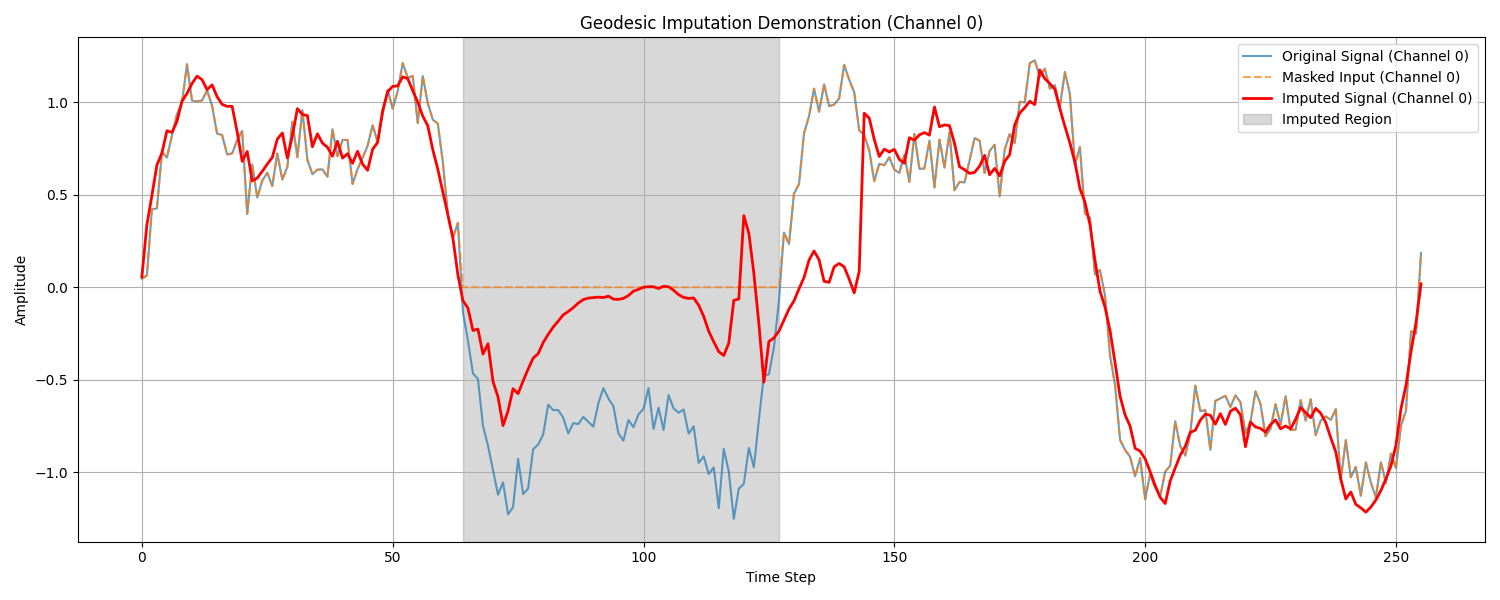
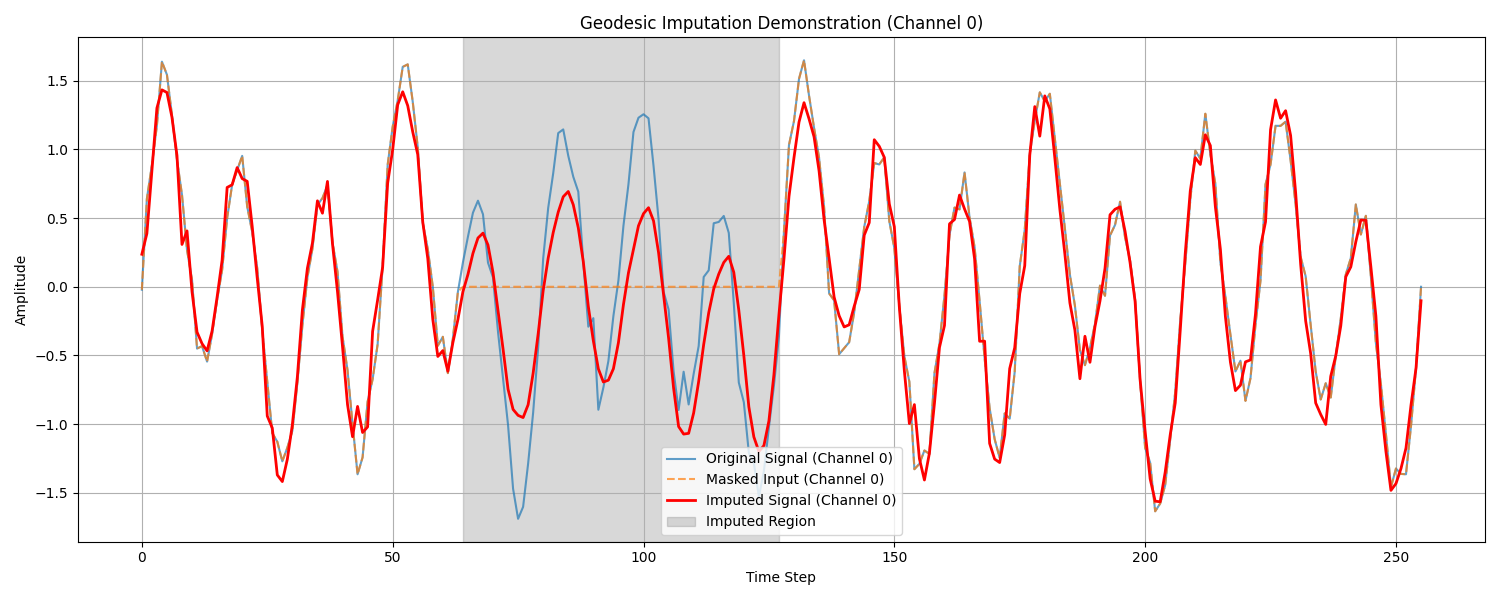
feat: semi-stable imputation.

diff --git a/main.py b/main.py
@@ -20,24 +20,43 @@ class VAE(nn.Module):
         self.encoder_conv1 = nn.Conv(features=64, kernel_size=(5,), padding='CAUSAL')
         self.encoder_conv2 = nn.Conv(features=64, kernel_size=(5,), padding='CAUSAL')
         self.encoder_dense = nn.Dense(self.latent_dim)
+        self.sigma_head = nn.Dense(self.latent_dim)
         
         # Decoder: MLP to map from manifold back to signal space
         self.decoder_hidden = nn.Dense(128)
         self.decoder_out = nn.Dense(self.input_dim)
 
-    def __call__(self, x):
+    def __call__(self, x, rng):
         # Encoder
         h = nn.relu(self.encoder_conv1(x))
         h = nn.relu(self.encoder_conv2(h))
-        z_raw = self.encoder_dense(h)
         
-        norm = jnp.linalg.norm(z_raw, axis=-1, keepdims=True)
-        z = z_raw / jnp.maximum(norm, 1e-8)
+        # Predict mu (on manifold) and sigma (tangent space concentration)
+        mu_raw = self.encoder_dense(h)
+        mu = mu_raw / jnp.maximum(jnp.linalg.norm(mu_raw, axis=-1, keepdims=True), 1e-8)
+        
+        # Sigma parameterizes the scale in tangent space
+        sigma = self.sigma_head(h)
+        sigma = nn.softplus(sigma) + 1e-5 # Positive scale
+        
+        # Tangent Space Sampling (Riemannian VAE)
+        # 1. Sample epsilon ~ N(0, I)
+        epsilon = jrandom.normal(rng, shape=mu.shape)
+        
+        # 2. Project to Tangent Space of mu
+        # v_raw = epsilon * sigma
+        v_raw = epsilon * sigma
+        dot = jnp.sum(v_raw * mu, axis=-1, keepdims=True)
+        v_tan = v_raw - dot * mu
+        
+        # 3. Exponential Map: z = exp_mu(v_tan)
+        norm_v = jnp.linalg.norm(v_tan, axis=-1, keepdims=True)
+        z = jnp.cos(norm_v) * mu + jnp.sin(norm_v) * (v_tan / jnp.maximum(norm_v, 1e-8))
         
         # Decoder (Pointwise)
         recon = self.decode(z)
         
-        return recon, z
+        return recon, z, mu, sigma
 
     def decode(self, z):
         h_dec = nn.relu(self.decoder_hidden(z))
@@ -152,22 +171,22 @@ class ManifoldFormer(nn.Module):
         self.dynamics = Dynamics(self.latent_dim)
         self.iso_scale = self.param('iso_scale', nn.initializers.ones, (1,))
 
-    def __call__(self, x):
-        recon_vae, z = self.vae(x)
+    def __call__(self, x, rng):
+        recon_vae, z, mu, sigma = self.vae(x, rng)
         z_dyn = self.dynamics(z)
         
         # Decode the dynamic state
         out = self.vae.decode(z_dyn)
         
-        return out, recon_vae, z, z_dyn, self.iso_scale
+        return out, recon_vae, z, z_dyn, self.iso_scale, mu, sigma
 
 # --- Loss Function ---
 
-def loss_fn(params, state, x, y):
-    pred, recon_vae, z, z_dyn, iso_scale = state.apply_fn({'params': params}, x)
+def loss_fn(params, state, x, y_pred_target, y_recon_target, rng):
+    pred, recon_vae, z, z_dyn, iso_scale, mu, sigma = state.apply_fn({'params': params}, x, rng)
     
-    l_recon = jnp.mean((pred - y) ** 2)
-    l_recon_vae = jnp.mean((recon_vae - x) ** 2)
+    l_recon = jnp.mean((pred - y_pred_target) ** 2)
+    l_recon_vae = jnp.mean((recon_vae - y_recon_target) ** 2)
     
     # Geodesic smoothness on the sphere
     dot_product = jnp.sum(z_dyn * z, axis=-1).clip(-1.0 + 1e-6, 1.0 - 1e-6)
@@ -184,7 +203,16 @@ def loss_fn(params, state, x, y):
     
     l_iso = jnp.mean((iso_scale * dist_z - dist_x) ** 2)
     
-    return l_recon + l_recon_vae + 0.1 * l_smooth + 0.01 * l_iso
+    # KL Divergence for Riemannian Normal (Approximate)
+    # KL(N_M(mu, sigma) || U_M) ~ -Entropy
+    # For small sigma, it behaves like Euclidean KL on tangent space.
+    # KL ~ -0.5 * sum(1 + log(sigma^2) - mu^2 - sigma^2) ? No, prior is Uniform on Sphere?
+    # Or prior is Standard Normal on Tangent Space?
+    # Let's assume prior is N(0, I) on tangent space (wrapped).
+    # Then KL is standard Gaussian KL on the tangent coefficients.
+    l_kl = -0.5 * jnp.mean(1 + jnp.log(sigma ** 2) - sigma ** 2)
+    
+    return l_recon + l_recon_vae + 0.1 * l_smooth + 0.01 * l_iso + 0.001 * l_kl
 
 # --- Data Generation ---
 
@@ -201,21 +229,41 @@ class SyntheticChordsDataset:
     def __getitem__(self, idx):
         t = np.linspace(0, 4 * np.pi, self.seq_len)
         
-        signals = []
+
+        # Return (Noisy Input, Clean Target)
+        # We need to generate the clean version again or store it.
+        # Let's refactor to generate clean first, then add noise.
+        
+        clean_signals = []
+        noisy_signals = []
+        
         for _ in range(self.batch_size):
             freqs = np.random.choice([1, 2, 3, 5, 8], size=3, replace=False)
-            signal = np.zeros((self.seq_len, self.channels))
+            clean_signal = np.zeros((self.seq_len, self.channels))
+            noisy_signal = np.zeros((self.seq_len, self.channels))
             
             for ch in range(self.channels):
                 phase_shift = (ch / self.channels) * 2 * np.pi
                 wave = (np.sin(freqs[0] * t + phase_shift) + 
                         0.5 * np.sin(freqs[1] * t + phase_shift) + 
                         0.25 * np.sin(freqs[2] * t + phase_shift))
-                signal[:, ch] = wave + np.random.normal(0, 0.1, size=len(t))
-            signals.append(signal)
+                clean_signal[:, ch] = wave
+                noisy_signal[:, ch] = wave + np.random.normal(0, 0.1, size=len(t))
             
-        signals = np.array(signals)
-        return signals[:, :-1, :], signals[:, 1:, :]
+            clean_signals.append(clean_signal)
+            noisy_signals.append(noisy_signal)
+            
+        clean_signals = np.array(clean_signals)
+        noisy_signals = np.array(noisy_signals)
+        
+        # Input: Noisy [0:-1]
+        # Target: Clean [1:] (for prediction) and Clean [0:-1] (for reconstruction)
+        # Actually, let's keep it simple:
+        # x = Noisy [0:-1]
+        # y_pred_target = Clean [1:]
+        # y_recon_target = Clean [0:-1]
+        
+        return noisy_signals[:, :-1, :], clean_signals[:, 1:, :], clean_signals[:, :-1, :]
 
 # --- Audio Saving ---
 
@@ -252,7 +300,8 @@ def geodesic_imputation(model, params, sequence_with_gap, gap_start, gap_end, ke
     original_seq_len = sequence_with_gap.shape[0]
 
     # 1. Encode the full sequence to get the context before the gap
-    _, z_full_latent = model.apply({'params': params}, sequence_with_gap, method=lambda module, x: module.vae(x))
+    # We need to pass a key for the VAE
+    _, z_full_latent, _, _ = model.apply({'params': params}, sequence_with_gap, key, method=lambda module, x, rng: module.vae(x, rng))
     
     # We start with the valid history up to the gap
     # Shape: (1, T, D) - adding batch dim for the model
@@ -353,24 +402,30 @@ def main():
     synth_ds = SyntheticChordsDataset(num_samples=10 * batch_size, seq_len=seq_len, channels=channels, batch_size=batch_size)
     
     @jax.jit
-    def train_step(state, x, y):
-        grads = jax.grad(loss_fn)(state.params, state, x, y)
+    def train_step(state, x, y_pred, y_recon, rng):
+        rng, key = jrandom.split(rng)
+        grads = jax.grad(loss_fn)(state.params, state, x, y_pred, y_recon, key)
         state = state.apply_gradients(grads=grads)
-        return state
+        return state, rng
 
     # Adjust sequence length for next-step prediction
     train_seq_len = seq_len - 1
 
-    params = model.init(key, jnp.ones((batch_size, train_seq_len, channels)))['params']
+    # Init with RNG
+    init_rng, train_rng = jrandom.split(key)
+    params = model.init(init_rng, jnp.ones((batch_size, train_seq_len, channels)), init_rng)['params']
     optimizer = optax.adamw(1e-3)
     state = train_state.TrainState.create(apply_fn=model.apply, params=params, tx=optimizer)
     
     for epoch in range(num_epochs):
         total_loss = 0
         for i in range(len(synth_ds)):
-            x, y = synth_ds[i]
-            state = train_step(state, x, y)
-            loss = loss_fn(state.params, state, x, y)
+            x, y_pred, y_recon = synth_ds[i]
+            state, train_rng = train_step(state, x, y_pred, y_recon, train_rng)
+            
+            # For logging, we need a key for loss_fn too if we call it outside
+            train_rng, log_key = jrandom.split(train_rng)
+            loss = loss_fn(state.params, state, x, y_pred, y_recon, log_key)
             total_loss += loss
         avg_loss = total_loss / len(synth_ds)
         print(f"Epoch {epoch+1}/{num_epochs}, Avg Loss: {avg_loss:.4f}")
@@ -378,8 +433,13 @@ def main():
     print("\n--- Training Complete ---")
     
     # Reconstruct a full sequence for imputation demo
-    sample_x, sample_y = synth_ds[0]
-    sample_input = jnp.concatenate([sample_x[0], sample_y[0][-1][None, :]], axis=0)
+    sample_x, sample_y_pred, sample_y_recon = synth_ds[0]
+    # sample_x is (B, T-1, C)
+    # sample_y_pred is (B, T-1, C) (shifted by 1)
+    # We want to reconstruct the full sequence.
+    # Let's just use the first sample's full length from the dataset generation logic?
+    # Or just stitch x and the last of y.
+    sample_input = jnp.concatenate([sample_x[0], sample_y_pred[0][-1][None, :]], axis=0)
 
     print("\n--- Demonstrating Geodesic Imputation ---")
     gap_start_idx = seq_len // 4
@@ -388,7 +448,11 @@ def main():
     input_with_gap = np.copy(sample_input)
     input_with_gap[gap_start_idx:gap_end_idx, :] = 0.0
     
-    imputed_output = geodesic_imputation(model, state.params, input_with_gap, gap_start_idx, gap_end_idx, key)
+    input_with_gap[gap_start_idx:gap_end_idx, :] = 0.0
+    
+    # Pass a key for the VAE sampling in imputation
+    impute_key, _ = jrandom.split(key)
+    imputed_output = geodesic_imputation(model, state.params, input_with_gap, gap_start_idx, gap_end_idx, impute_key)
     
     save_audio(imputed_output, "imputed_audio_sample.wav")
     
@@ -413,8 +477,9 @@ def main():
 
     print("\n--- Generating Phase Portrait ---")
     # Get latent trajectory for the sample input
-    _, z_sample = model.apply({'params': state.params}, sample_input[None, ...], method=lambda m, x: m.vae(x))
-    plot_phase_portrait(z_sample[0])
+    # Use the mean (mu) for the phase portrait to show the "clean" manifold
+    _, _, z_sample_mu, _ = model.apply({'params': state.params}, sample_input[None, ...], key, method=lambda m, x, rng: m.vae(x, rng))
+    plot_phase_portrait(z_sample_mu[0])
 
 if __name__ == '__main__':
     main()
